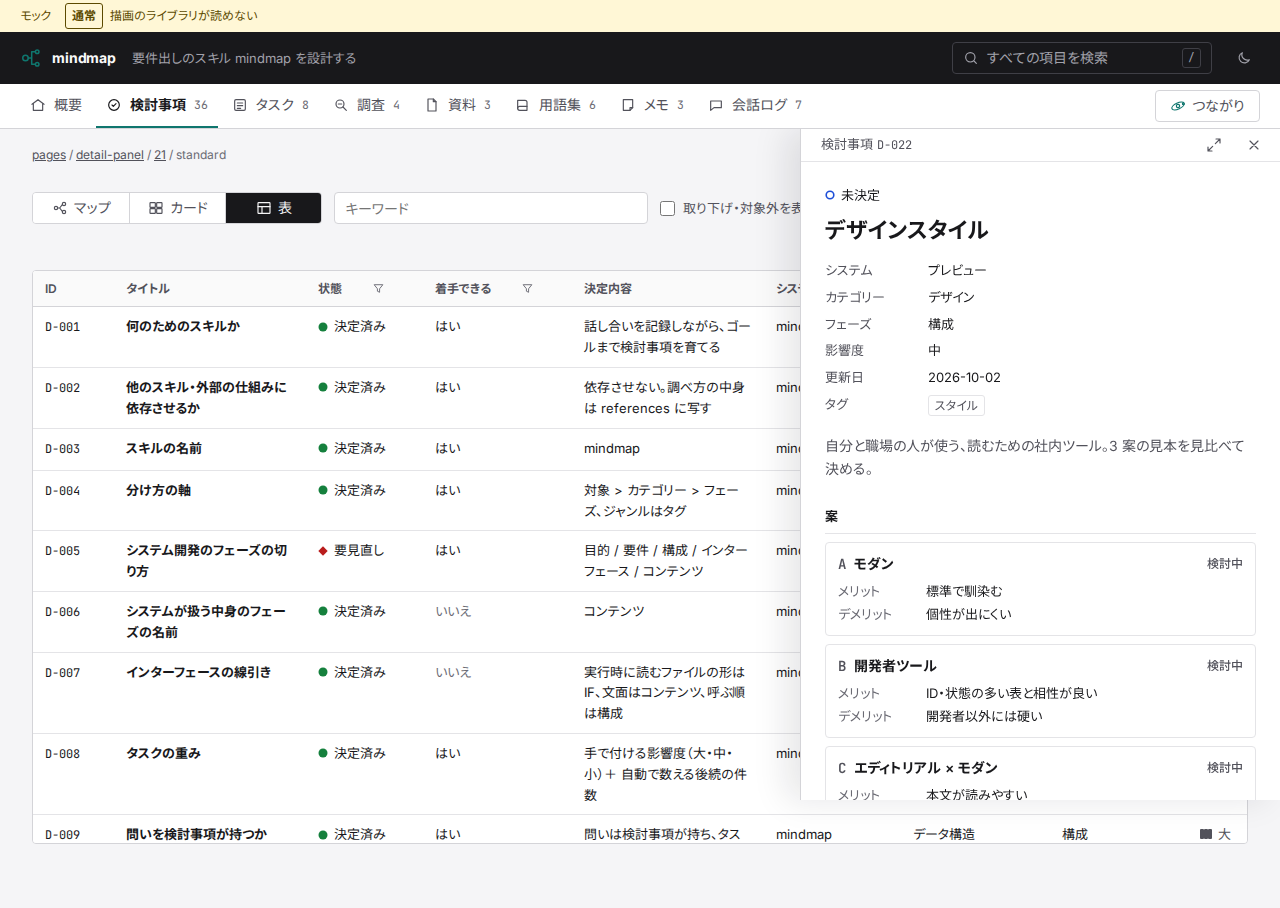
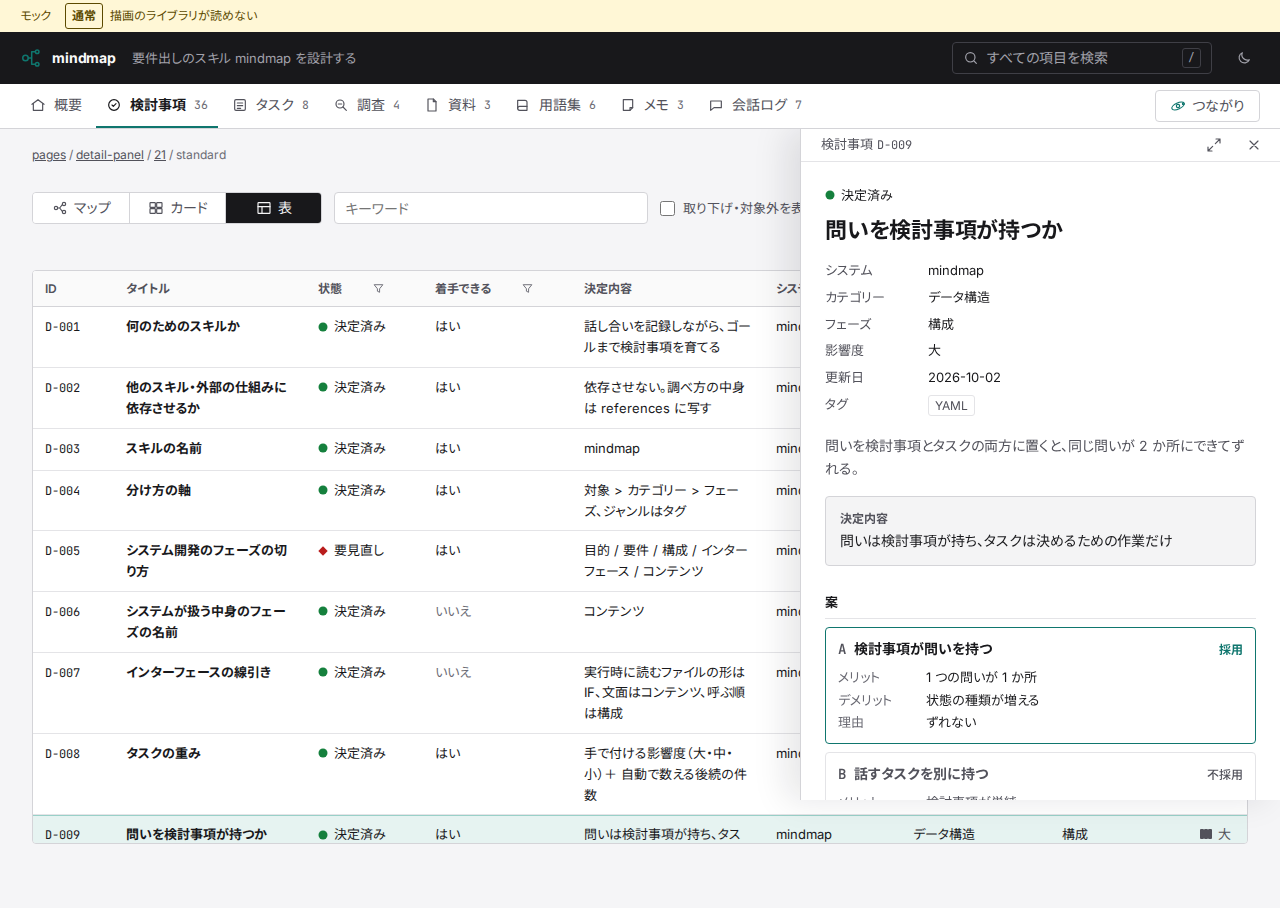
照合の差異: 図の道具を Raw にし、詳細パネルを決定済みの項目で開き、足りない場面とブレークポイントの前後を撮る

diff --git a/dev/mock/refs/21/assets/app.js b/dev/mock/refs/21/assets/app.js
@@ -939,7 +939,7 @@
       blocks.forEach((c, i) => {
         const fig = document.createElement("figure");
         fig.className = "diagram";
-        fig.innerHTML = `<div class="dg-tools"><button class="icon-btn" data-act="dgzoom" aria-label="図を拡大して見る" title="拡大して見る">${icon("expand")}</button><button class="btn ghost" data-act="dgraw" aria-pressed="false">原文</button><button class="icon-btn" data-act="dgcopy" aria-label="原文をコピー" title="原文をコピー">${icon("copy")}</button></div><div class="mermaid"></div><pre class="dg-raw" hidden></pre>`;
+        fig.innerHTML = `<div class="dg-tools"><button class="icon-btn" data-act="dgzoom" aria-label="図を拡大して見る" title="拡大して見る">${icon("expand")}</button><button class="btn ghost" data-act="dgraw" aria-pressed="false">Raw</button><button class="icon-btn" data-act="dgcopy" aria-label="原文をコピー" title="原文をコピー">${icon("copy")}</button></div><div class="mermaid"></div><pre class="dg-raw" hidden></pre>`;
         fig.querySelector(".mermaid").textContent = c.textContent;
         fig.querySelector(".dg-raw").textContent = c.textContent;
         c.closest("pre").replaceWith(fig);

diff --git a/dev/mock/pages/detail-panel/21/standard/index.html b/dev/mock/pages/detail-panel/21/standard/index.html
@@ -22,7 +22,7 @@
   <script src="../../../../refs/21/assets/app.js" defer></script>
 </head>
 <!-- data-screen: 描く画面。data-pages: pages/ への相対パス。data-initial: ハッシュが無いときに開く状態 -->
-<body data-screen="decisions" data-pages="../../../" data-initial="view=table&id=D-022">
+<body data-screen="decisions" data-pages="../../../" data-initial="view=table&id=D-009">
   <!-- モック専用の操作列: 描画のライブラリが読めない状態に切り替える -->
   <div class="mockbar" role="group" aria-label="モックの状態">
     <span>モック</span>

diff --git a/dev/mock/refs/21/assets/style.css b/dev/mock/refs/21/assets/style.css
@@ -580,3 +580,5 @@ dialog.full .panel-head { flex: none; }
 body:has(> .mockbar) { --mock-h: 32px; }
 /* モック専用の操作列を上端に留める */
 .mockbar { position: sticky; top: 0; z-index: 31; height: var(--mock-h); padding-top: 0; padding-bottom: 0; }
+/* 1680px 以上で詳細パネルを並べるときは、パンくずも本文と同じだけ寄せる */
+@media (min-width: 1680px) { body.panel-open .crumbs-bar { margin-right: var(--panel-w); } }
